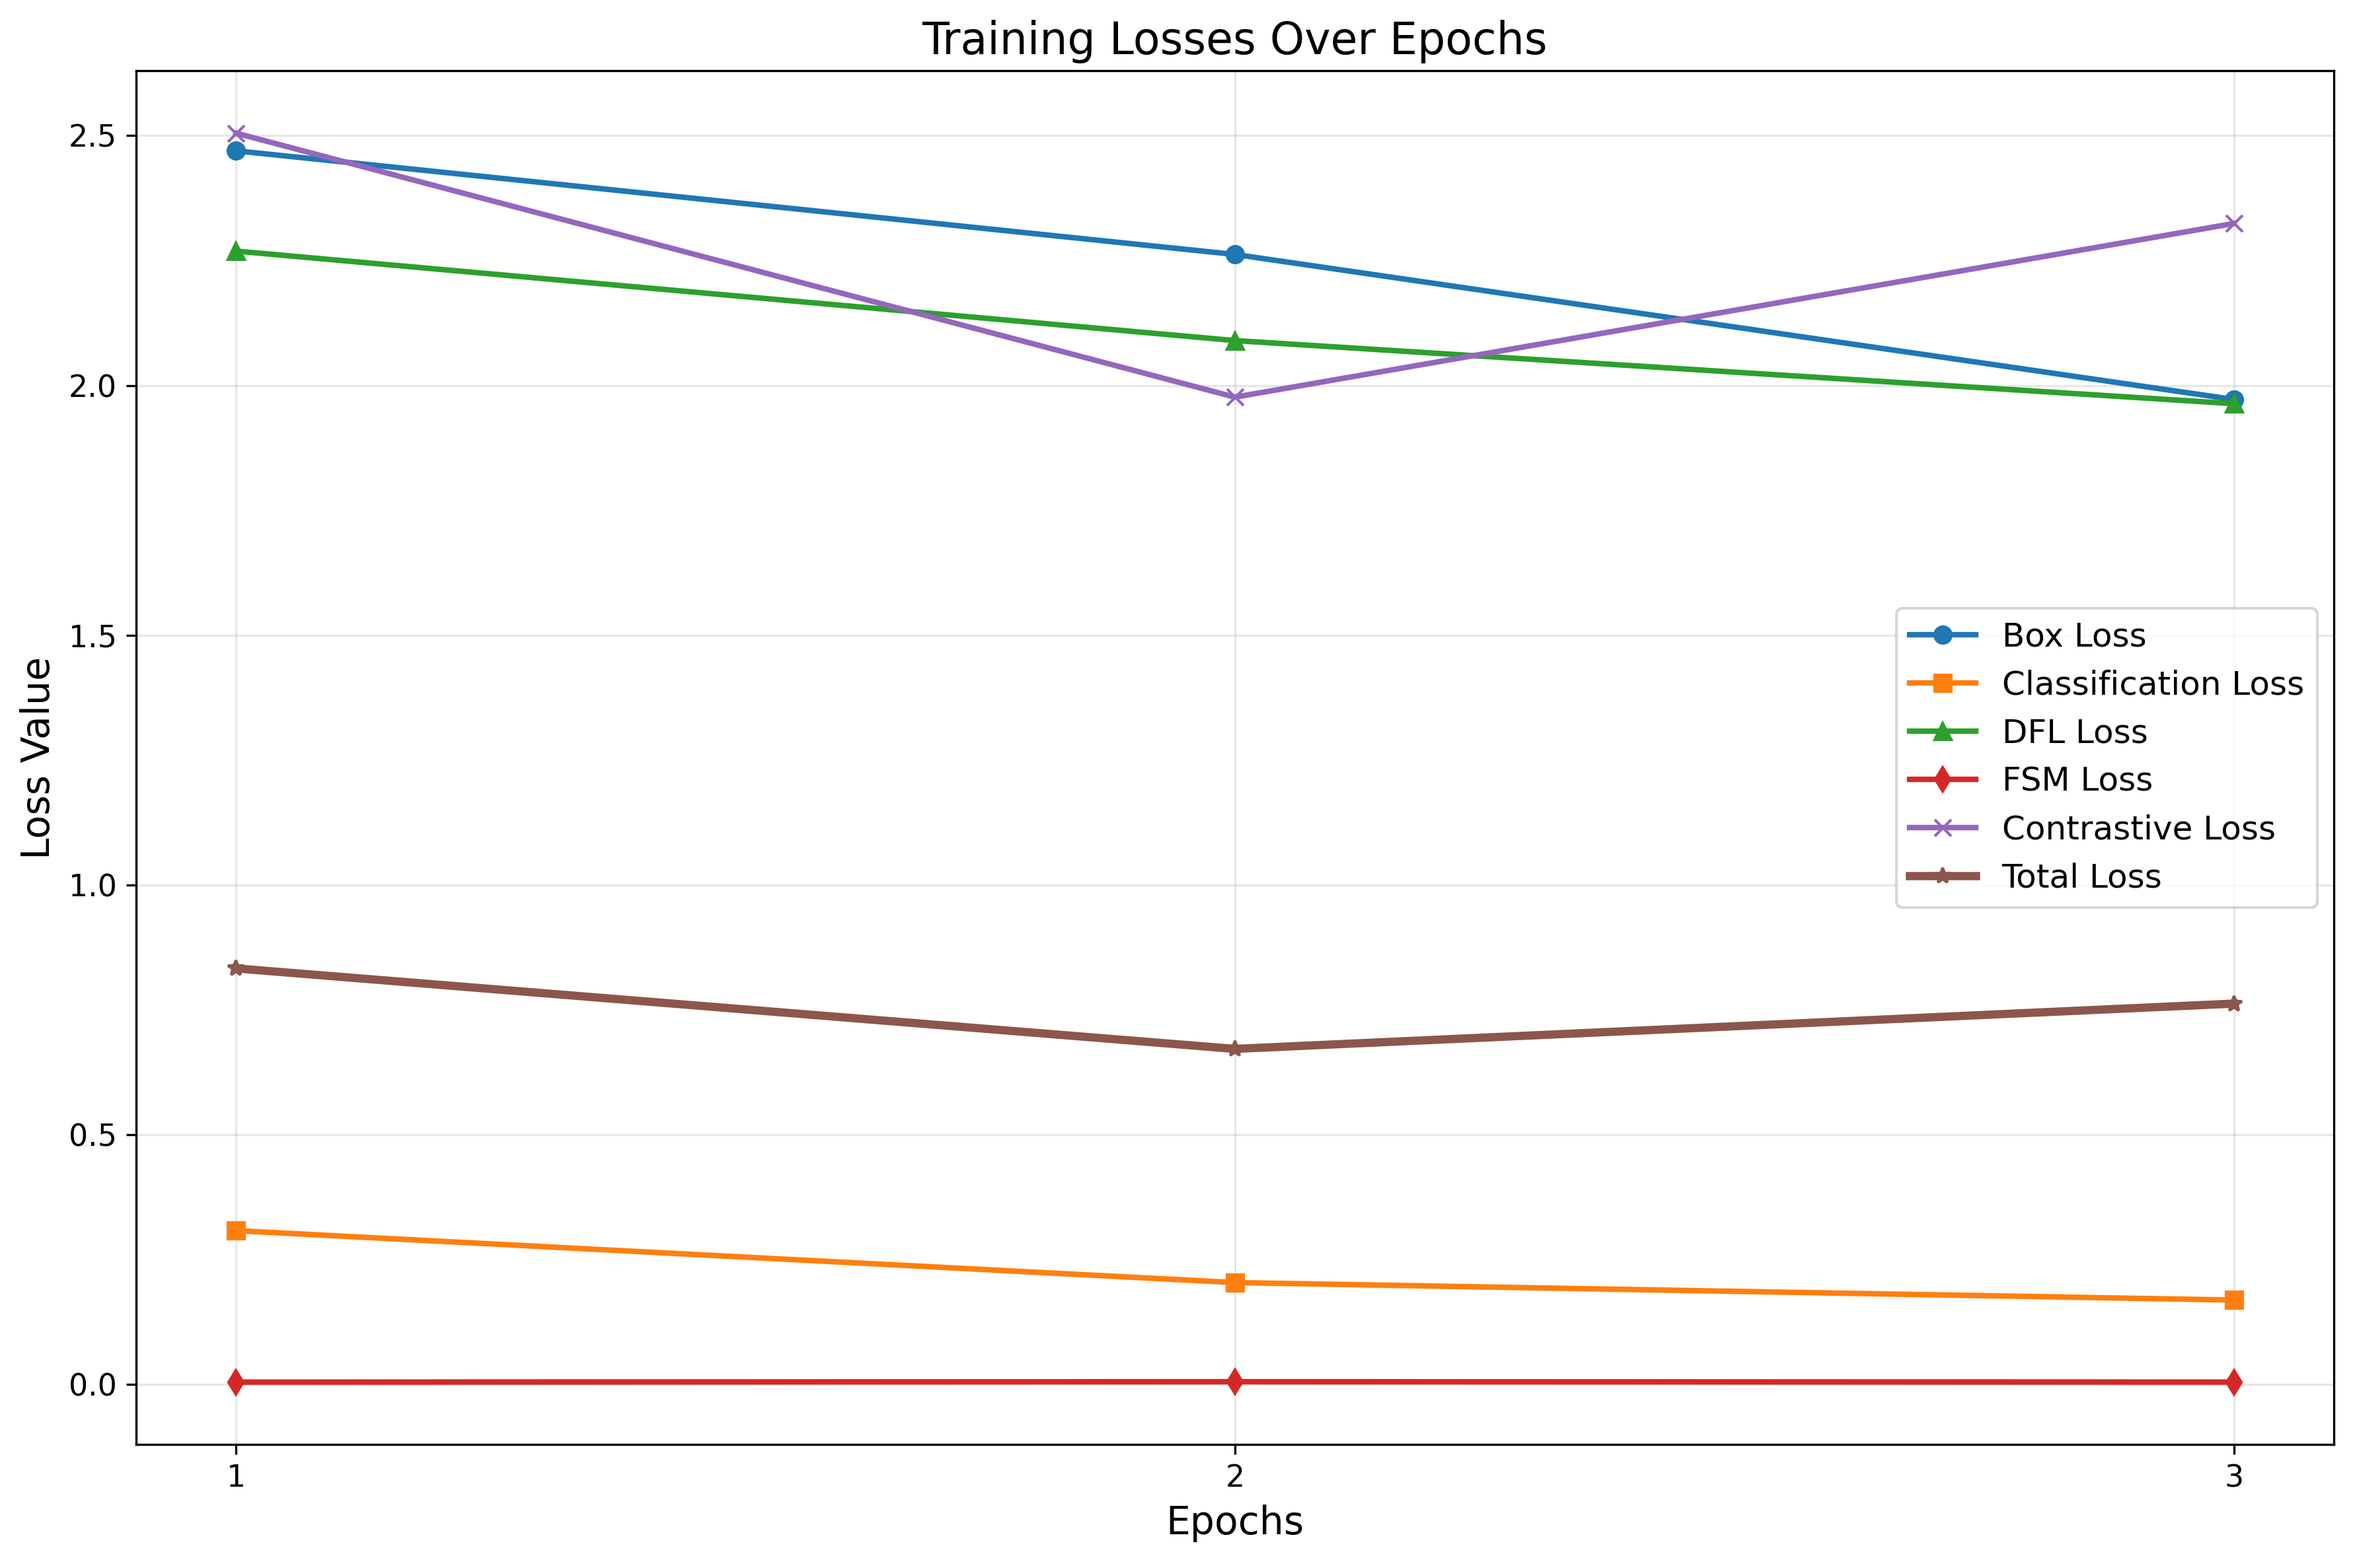
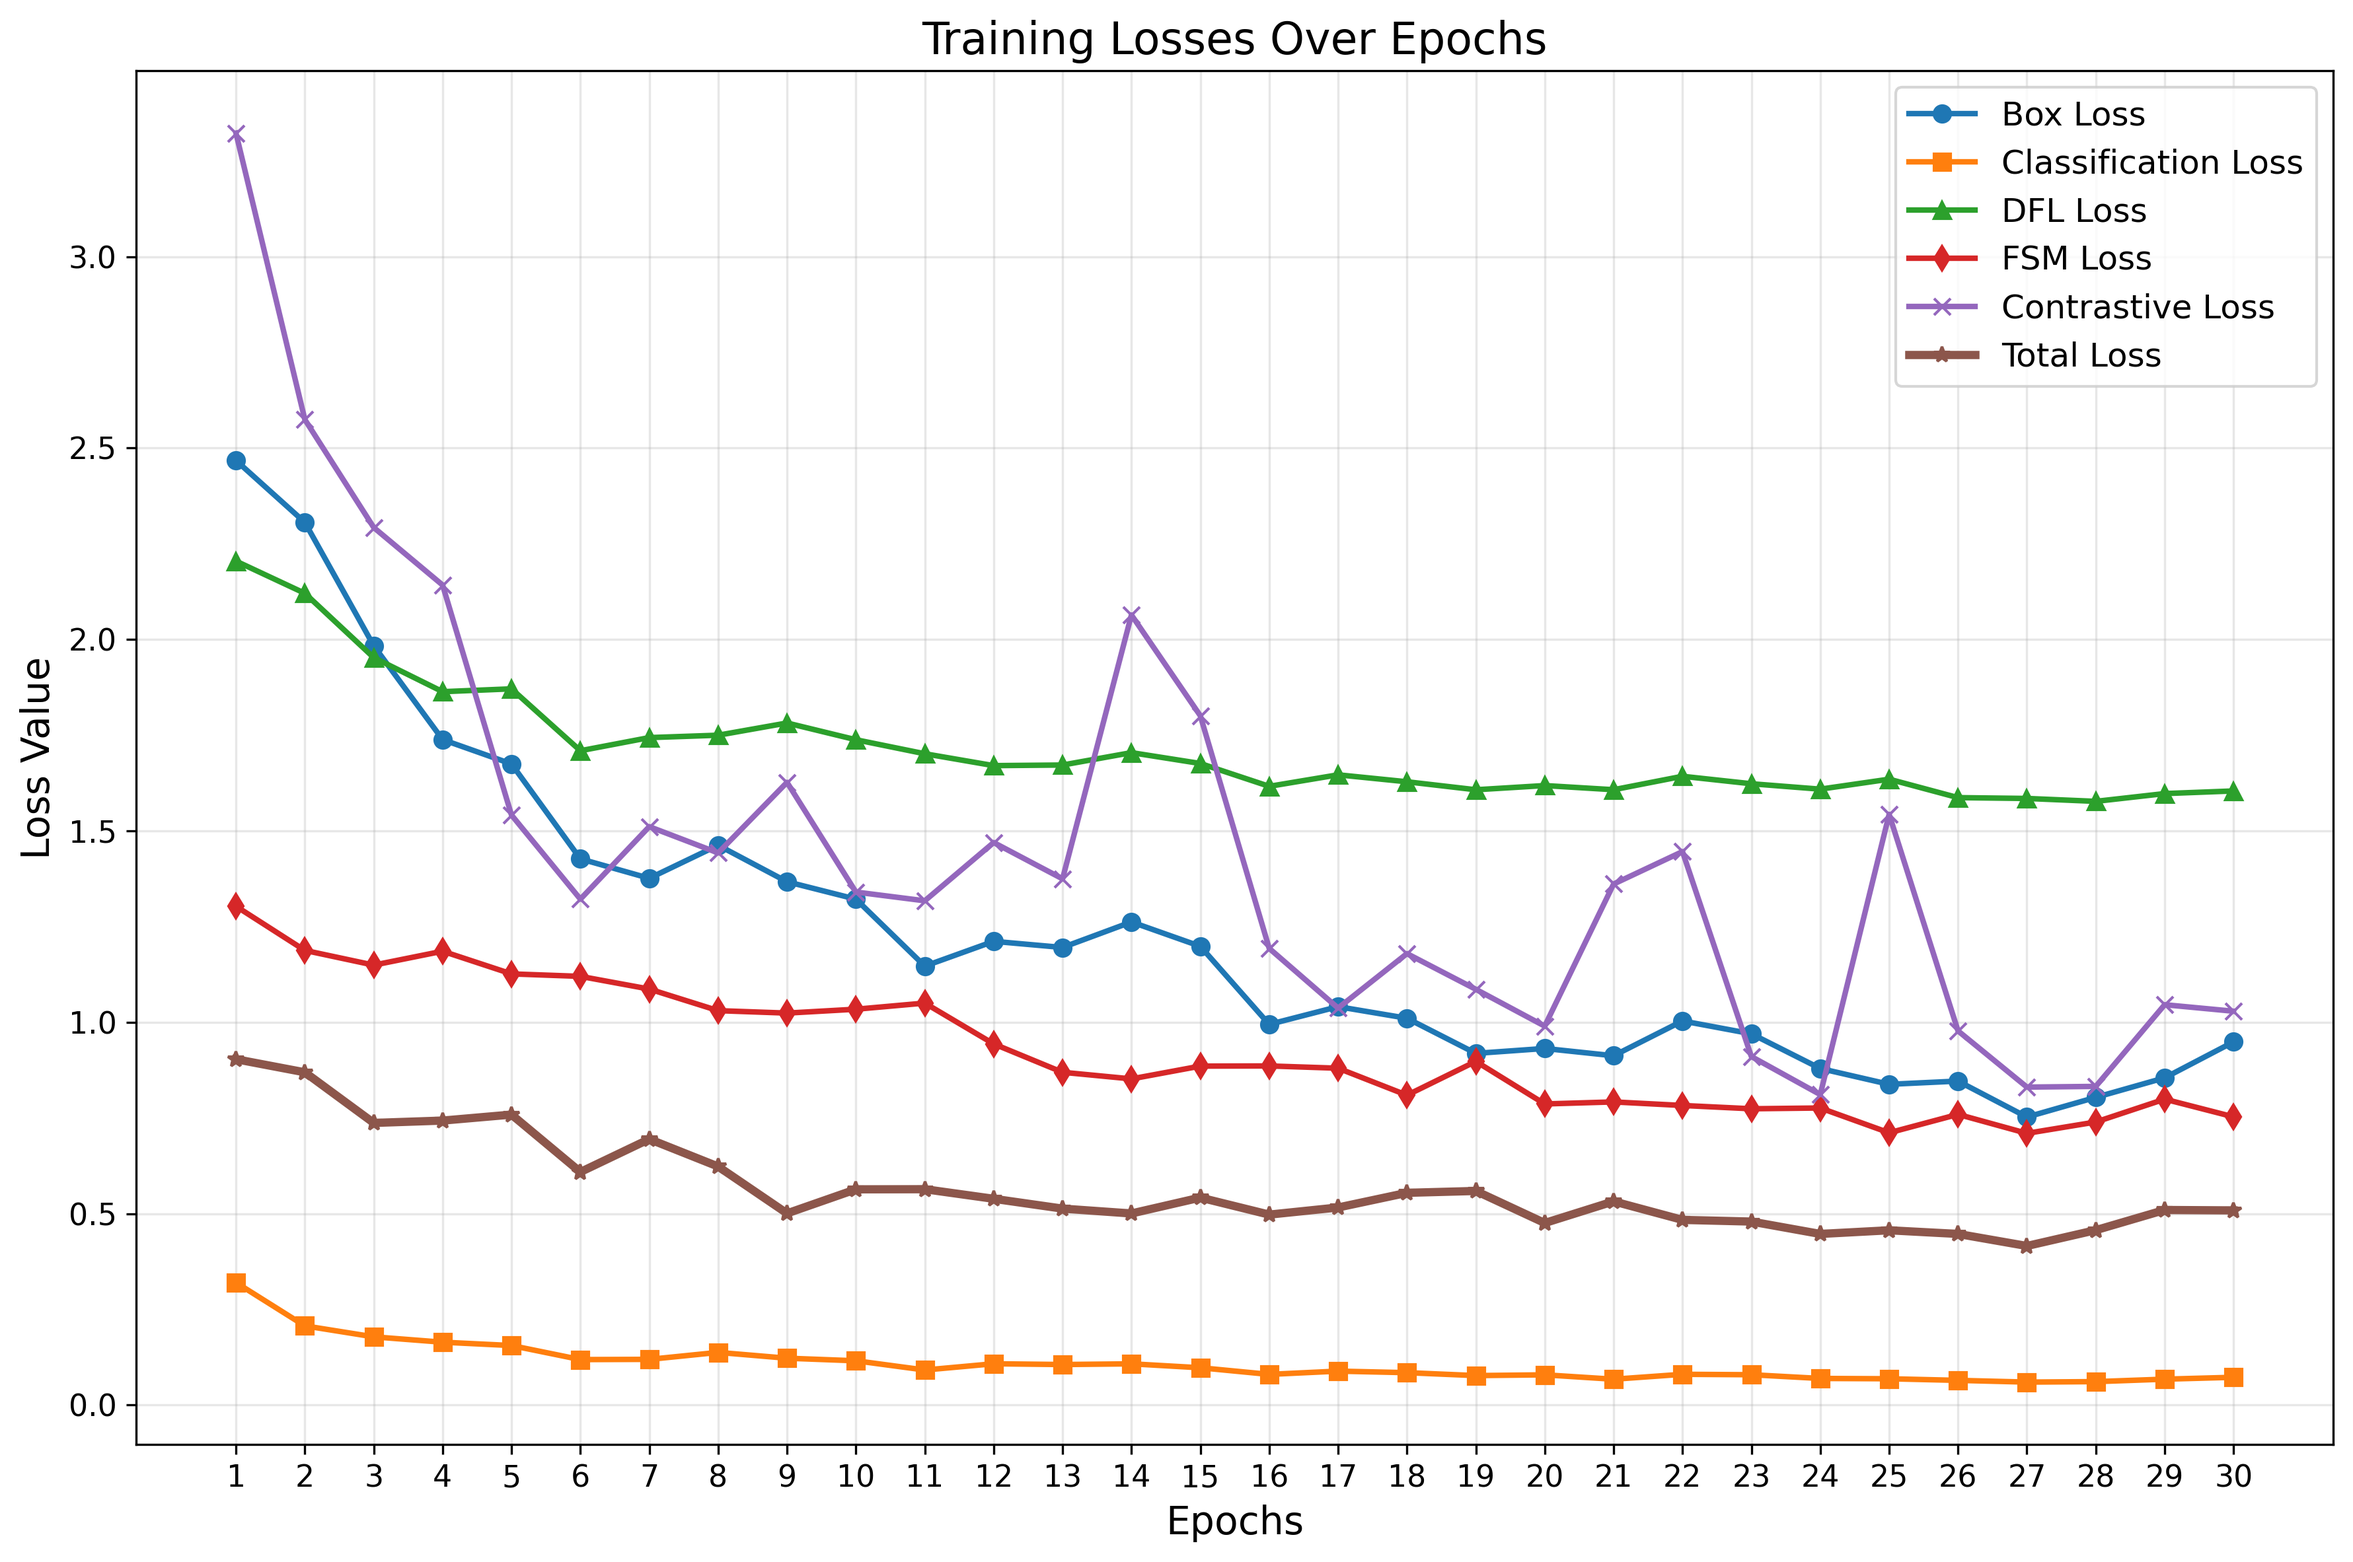
runable code with all the losses decrease

diff --git a/train.py b/train.py
@@ -478,7 +478,7 @@ def main():
                     layer_fsm_loss += fsm_weights[layer] * torch.mean(
                         (fog_factor_b / (hb * wb) - fog_factor_a / (ha * wa)) ** 2) / half / b_feature.size(0)
 
-                loss_fsm += layer_fsm_loss / 4.
+                loss_fsm += -torch.log10(layer_fsm_loss)/4
 
             total_loss = (
                 sf_loss +

diff --git a/config/config.py b/config/config.py
@@ -6,7 +6,7 @@ ITER_SIZE = 100
 NUM_WORKERS = 4
 INPUT_SIZE = '2048,1024'
 INPUT_SIZE_RF = '1280,960'
-NUM_EPOCHS = 3
+NUM_EPOCHS = 30
 NUM_STEPS = 1000000
 NUM_EPOCHS_FPF = 1
 NUM_STEPS_STOP = 60000  
